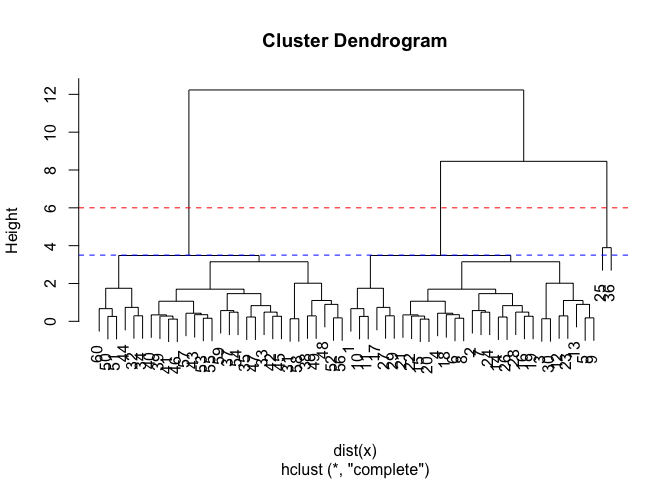
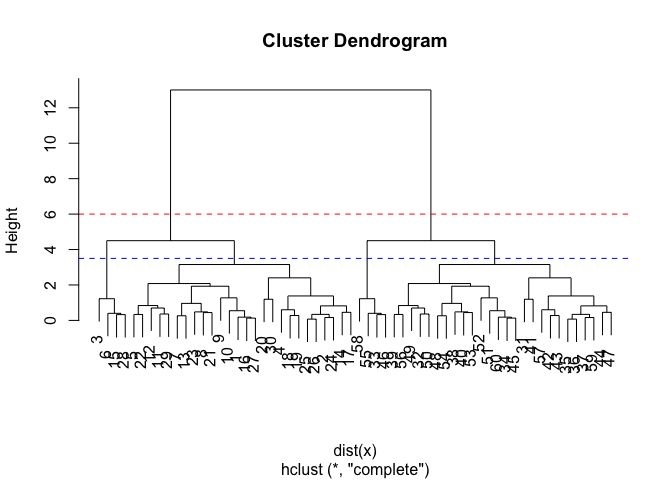
update class9

diff --git a/class09/class09.md b/class09/class09.md
@@ -33,16 +33,16 @@ km
     ## 
     ## Cluster means:
     ##           x         y
-    ## 1  2.810404 -3.089502
-    ## 2 -3.089502  2.810404
+    ## 1  2.733416 -3.007878
+    ## 2 -3.007878  2.733416
     ## 
     ## Clustering vector:
     ##  [1] 2 2 2 2 2 2 2 2 2 2 2 2 2 2 2 2 2 2 2 2 2 2 2 2 2 2 2 2 2 2 1 1 1 1 1 1 1 1
     ## [39] 1 1 1 1 1 1 1 1 1 1 1 1 1 1 1 1 1 1 1 1 1 1
     ## 
     ## Within cluster sum of squares by cluster:
-    ## [1] 49.62552 49.62552
-    ##  (between_SS / total_SS =  91.3 %)
+    ## [1] 49.35628 49.35628
+    ##  (between_SS / total_SS =  90.9 %)
     ## 
     ## Available components:
     ## 
@@ -135,8 +135,8 @@ grps <- cutree(hc, h=6)
 grps
 ```
 
-    ##  [1] 1 1 1 1 1 1 1 1 1 1 1 1 1 1 1 1 1 1 1 1 1 1 1 1 2 1 1 1 1 1 3 3 3 3 3 2 3 3
-    ## [39] 3 3 3 3 3 3 3 3 3 3 3 3 3 3 3 3 3 3 3 3 3 3
+    ##  [1] 1 1 1 1 1 1 1 1 1 1 1 1 1 1 1 1 1 1 1 1 1 1 1 1 1 1 1 1 1 1 2 2 2 2 2 2 2 2
+    ## [39] 2 2 2 2 2 2 2 2 2 2 2 2 2 2 2 2 2 2 2 2 2 2
 
 ``` r
 table( cutree(hc, h=3.5) )
@@ -144,7 +144,7 @@ table( cutree(hc, h=3.5) )
 
     ## 
     ##  1  2  3  4 
-    ## 29  1 29  1
+    ## 26  4 26  4
 
 You can also ask `cutree()` for the `k` number of groups that yopu
     want.
@@ -153,8 +153,8 @@ You can also ask `cutree()` for the `k` number of groups that yopu
 cutree(hc, k=5)
 ```
 
-    ##  [1] 1 1 1 1 1 1 1 1 1 1 1 1 1 1 1 1 1 1 1 1 1 1 1 1 2 1 1 1 1 1 3 4 3 4 3 5 3 3
-    ## [39] 3 3 3 3 3 4 3 3 3 3 3 4 4 3 3 3 3 3 3 3 3 4
+    ##  [1] 1 1 2 1 1 2 1 1 1 1 1 1 1 1 2 1 1 1 1 1 1 1 1 1 1 1 1 2 1 1 3 4 5 4 3 3 3 4
+    ## [39] 4 4 3 3 3 3 4 5 3 4 4 4 4 4 4 4 5 4 3 5 3 4
 
 ``` r
 x.grp1 <- x[grps==1]
@@ -202,11 +202,11 @@ grps3 <- cutree(hc, k=3)
 grps3
 ```
 
-    ##   [1] 1 2 2 1 1 1 2 1 1 2 1 2 1 1 1 1 1 1 1 1 1 1 1 1 1 2 1 1 1 1 1 1 1 1 1 1 1
-    ##  [38] 1 1 1 2 1 1 1 1 1 1 1 1 1 3 3 3 3 3 3 3 3 3 3 3 3 3 3 3 3 3 3 3 3 3 3 3 3
-    ##  [75] 3 3 3 3 3 3 3 3 3 3 3 3 3 3 3 3 3 2 3 3 3 3 3 3 3 3 2 2 2 2 2 3 2 2 3 3 2
-    ## [112] 2 3 3 3 2 2 2 2 2 2 3 2 3 3 2 2 2 2 2 2 2 3 2 3 2 3 2 2 3 2 1 2 2 2 2 3 2
-    ## [149] 2 3
+    ##   [1] 1 1 2 2 1 2 1 1 2 2 1 1 1 1 1 2 1 1 2 1 1 2 1 2 2 1 1 1 1 1 2 1 1 1 1 1 1
+    ##  [38] 2 1 1 1 2 2 1 1 1 1 1 2 1 3 3 3 3 3 3 3 3 3 3 3 3 3 3 3 3 3 3 3 3 3 3 3 3
+    ##  [75] 3 3 3 3 3 3 3 3 3 3 3 3 3 3 3 3 3 3 3 3 3 3 3 3 3 3 2 2 2 2 2 2 2 2 3 2 2
+    ## [112] 2 2 3 3 2 2 2 3 3 3 2 2 3 2 2 2 2 2 2 3 2 2 2 2 2 2 2 2 3 3 2 3 2 3 3 2 2
+    ## [149] 2 2
 
 ``` r
 table(grps3)
@@ -214,7 +214,7 @@ table(grps3)
 
     ## grps3
     ##  1  2  3 
-    ## 44 42 64
+    ## 35 52 63
 
 Q. How does this compare to your known ‘col’ groups?
 
@@ -230,9 +230,9 @@ table(grps3, col)
 
     ##      col
     ## grps3 c1 c2 c3
-    ##     1 43  0  1
-    ##     2  7  1 34
-    ##     3  0 49 15
+    ##     1 35  0  0
+    ##     2 15  0 37
+    ##     3  0 50 13
 
 # Principal Component Analysis (PCA)
 
